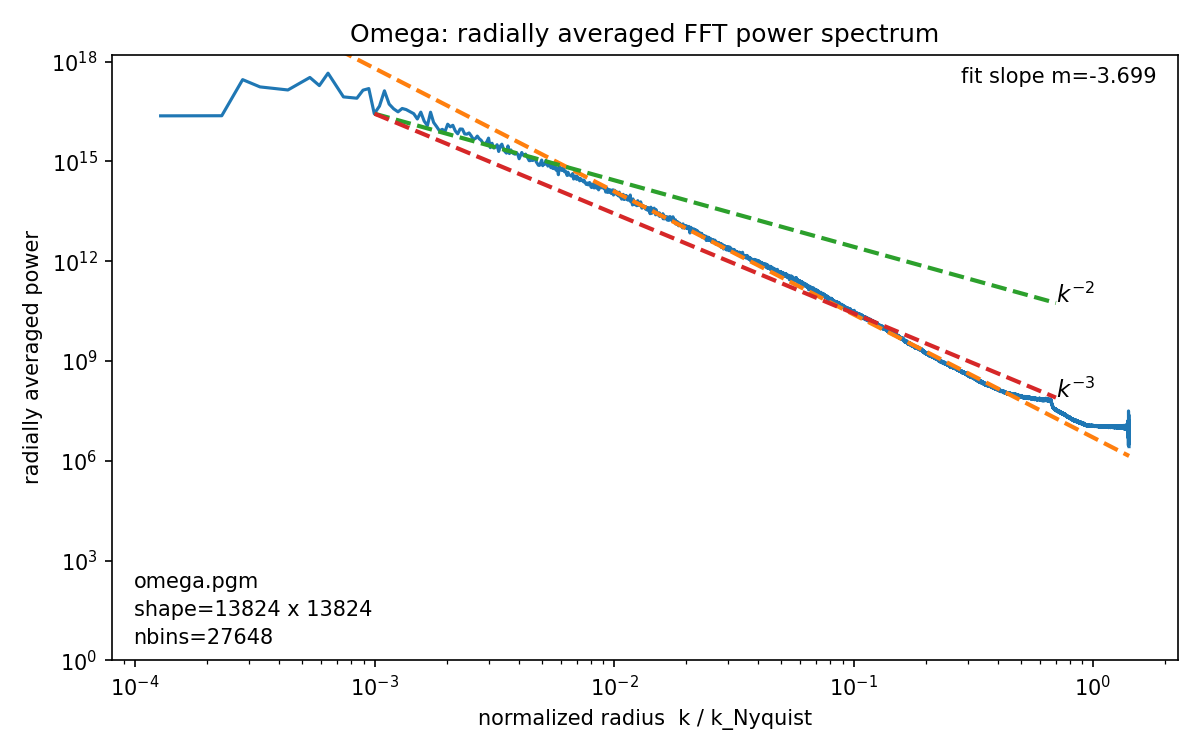
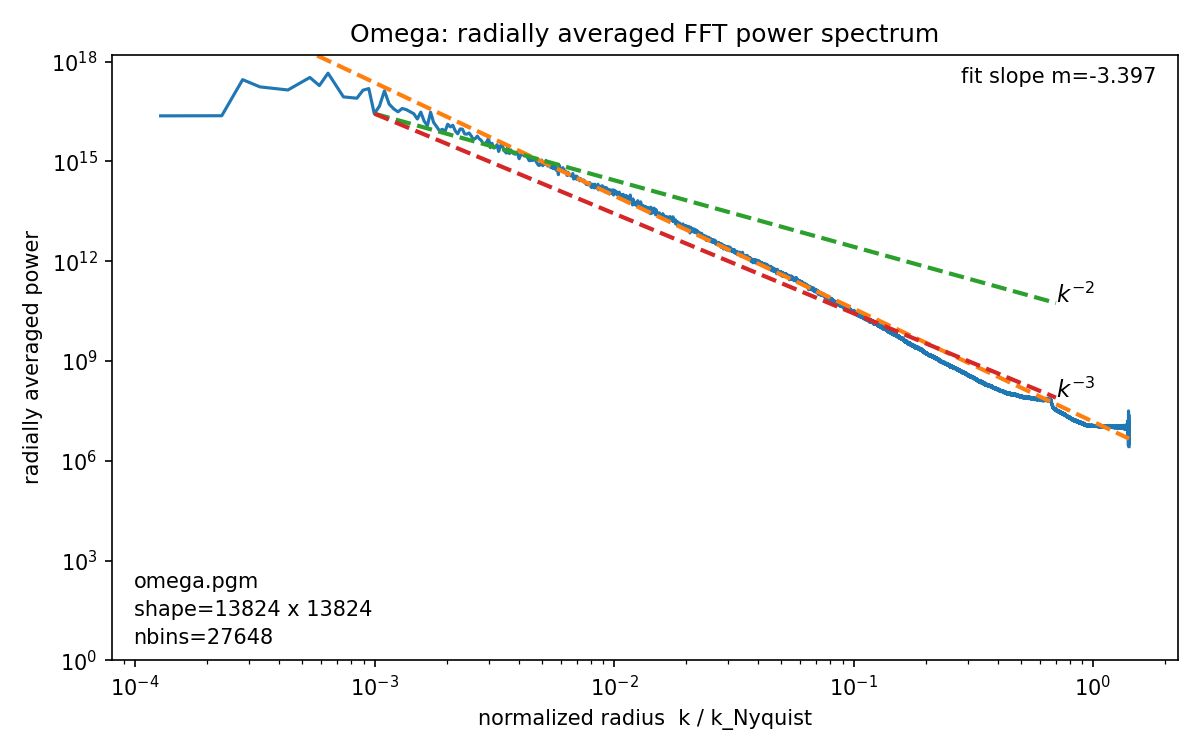
omega_spectrum

diff --git a/spectrum/omega_spectrum.py b/spectrum/omega_spectrum.py
@@ -147,7 +147,7 @@ def main():
     ap.add_argument("--out", type=str, default="omega_spectrum.png", help="Output PNG")
     ap.add_argument("--nbins", type=int, default=0, help="Radial bins, 0 means auto")
     ap.add_argument("--fit_min", type=float, default=1.0e-3, help="Fit start x")
-    ap.add_argument("--fit_max", type=float, default=0.5, help="Fit end x")
+    ap.add_argument("--fit_max", type=float, default=0.1, help="Fit end x")
     ap.add_argument("--x1", type=float, default=1.0e-3, help="Anchor x for reference lines")
     ap.add_argument("--x2", type=float, default=0.7, help="End x for reference lines")
     args = ap.parse_args()
